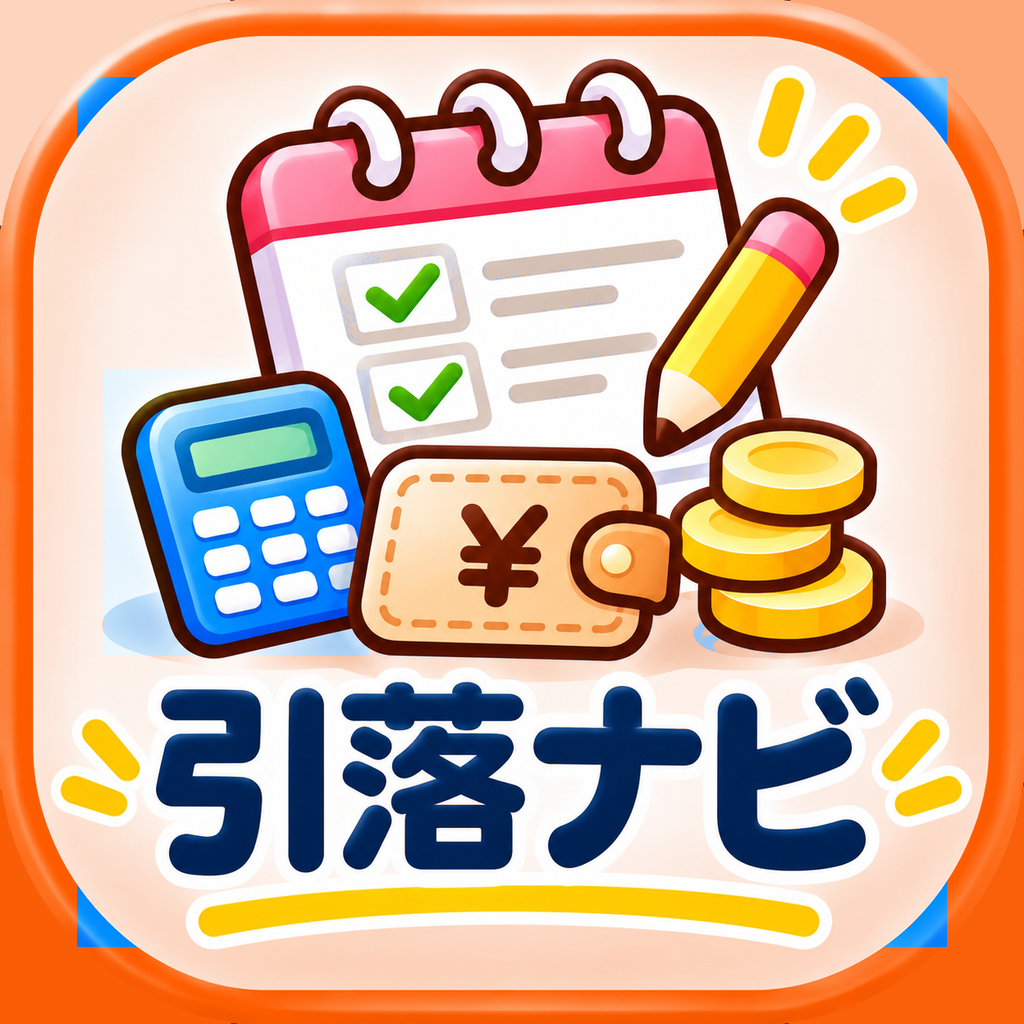
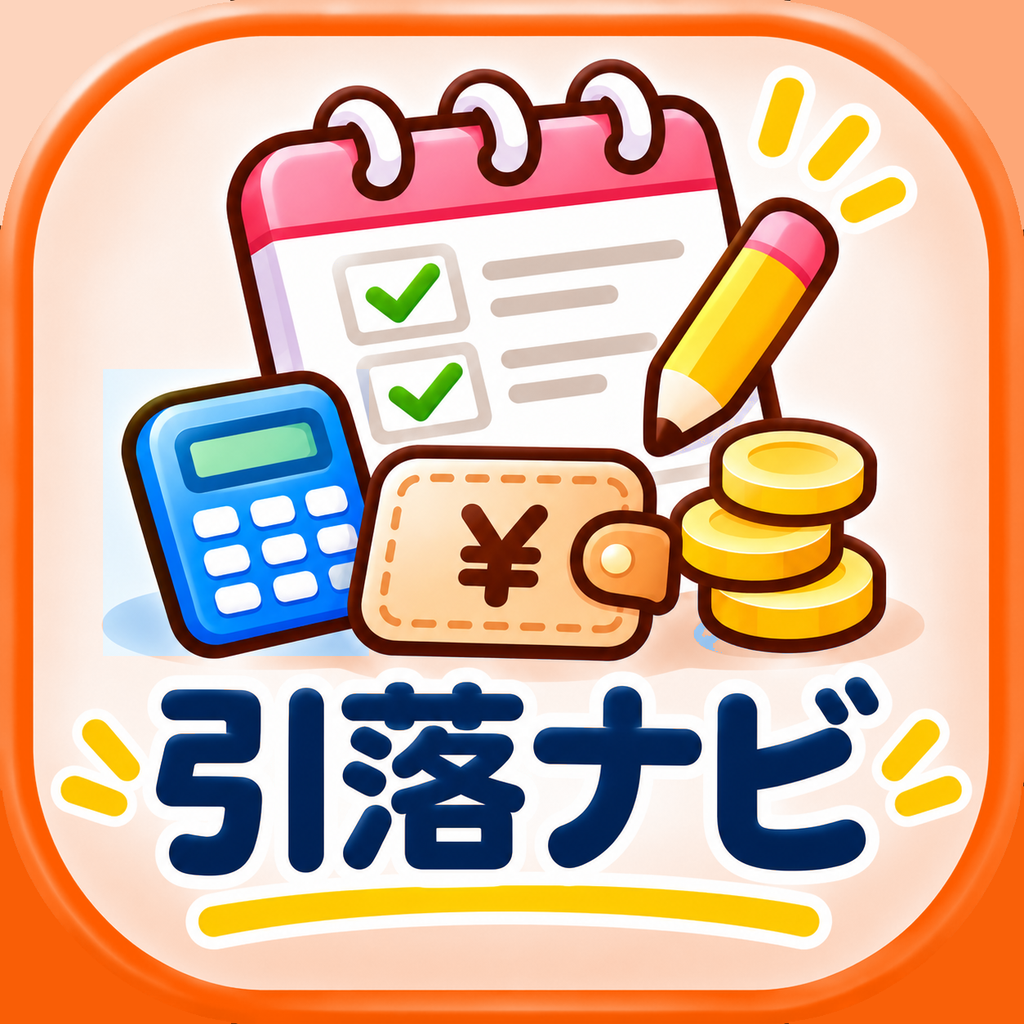
色ちがいのアイコンの枠に青が残っていたのを修正
Claude-Session: https://claude.ai/code/session_01BdEdxiF6o3EAy9uxbKMDjx

diff --git a/sw.js b/sw.js
@@ -1,5 +1,5 @@
 /* オフライン用：アプリ本体だけを保存する（家計データはここに含まれない） */
-const CACHE = 'kakeibo-app-v71';
+const CACHE = 'kakeibo-app-v72';
 const FILES = ['./', 'index.html', 'native.js', 'calc.js', 'app.js', 'manifest.webmanifest', 'hero.png', 'logo-text.png', 'logo-wave.png', 'logo-outline.png', 'icon-blue-180.png', 'icon-pink-180.png', 'icon-green-180.png', 'icon-purple-180.png', 'icon-orange-180.png', 'icon-192-v3.png', 'icon-512-v3.png', 'apple-touch-icon-v3.png'];
 self.addEventListener('install', e => {
   e.waitUntil(caches.open(CACHE).then(c => c.addAll(FILES.map(f => new Request(f, { cache: 'reload' })))).then(() => self.skipWaiting()));
